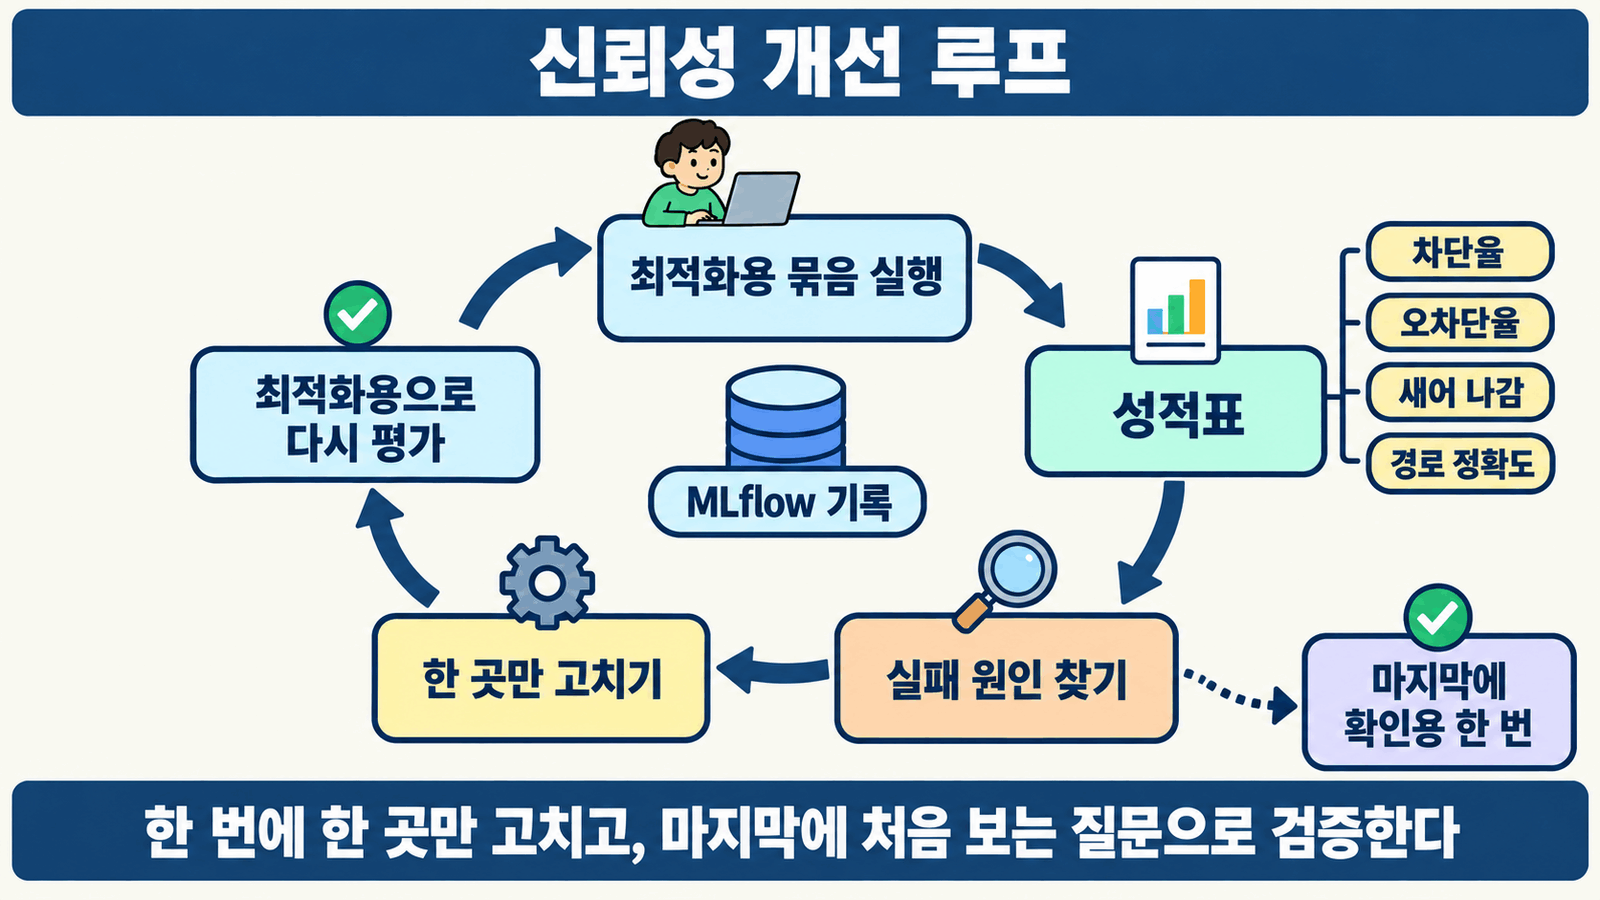
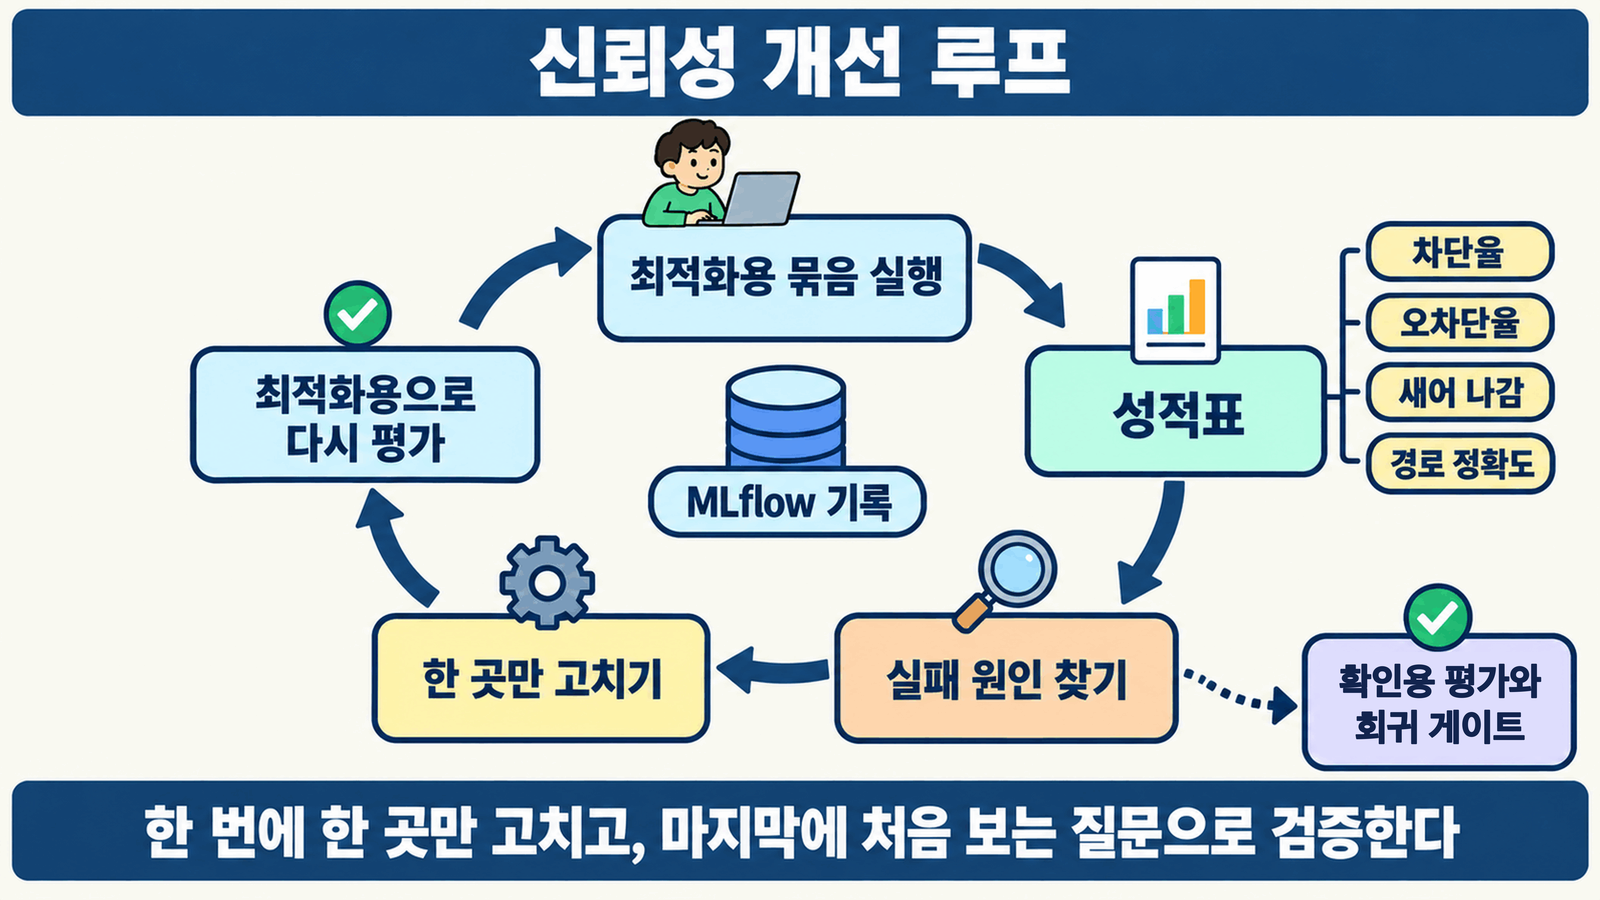
day64 노트북 용어와 설명 다듬기, 함께 따라하기에 회귀 게이트 확인 단계, 노드 흐름도 화살표 가운데 정렬과 평가 루프 그림 갱신

Changed region(s): [[0.8125, 0.7156, 0.9688, 0.84]]

diff --git a/day64_레일통합_실행레일/교안02_실행레일_루나에이전트/luna_agent/app/graph/builder.py b/day64_레일통합_실행레일/교안02_실행레일_루나에이전트/luna_agent/app/graph/builder.py
@@ -6,10 +6,10 @@
 입력, 출력 레일은 요청마다 한 번 돌아 노드로 둔다. 실행 레일은 에이전트의 도구 반복 안에서 돌아 미들웨어로 둔다.
 
 미들웨어 순서 규칙(langchain 1.3 create_agent)
-- before_model 훅은 목록 순서대로, after_model 훅은 목록의 거꾸로 돈다.
+- before_model 훅은 목록 순서대로, after_model 훅은 목록의 역순으로 돈다.
 - wrap_model_call, wrap_tool_call 은 목록의 첫 미들웨어가 가장 바깥이다. 바깥이 막으면 안쪽은 돌지 않는다.
 그래서 도구 실행 전 검사(2~6번 wrap_tool_call)는 권한 확인이 가장 먼저 돌고, 모델 호출 뒤 훅인 승인(7번)과 답변 가림(8, 9번)은
-목록의 거꾸로 돌아 답변을 가린 다음 승인을 묻는다.
+목록의 역순으로 돌아 답변을 가린 다음 승인을 묻는다.
 """
 import sys
 from pathlib import Path
@@ -41,7 +41,7 @@ ALL_TOOLS = BOOKING_TOOLS + [create_fanart]
 
 # [미들웨어] 실행 레일의 순서와 이유. 번호는 이 목록의 순서다(교안 그림 middleware_order.png 의 번호와 같다)
 # 도구 쪽(2~6, wrap_tool_call): 앞이 바깥이다. 바깥이 막으면 안쪽 검사와 도구는 돌지 않으므로 싼 검사, 넓은 검사를 앞에 둔다
-# 모델 뒤 훅(7~9, after_model): 목록의 거꾸로(9, 8, 7) 돈다. 답변 가림이 먼저 끝나고, 승인은 마지막에 도구 호출만 본다
+# 모델 뒤 훅(7~9, after_model): 목록의 역순(9, 8, 7)으로 돈다. 답변 가림이 먼저 끝나고, 승인은 마지막에 도구 호출만 본다
 MIDDLEWARE = [
     expose_tools_by_role,     # 1. 모델 호출마다: 역할 밖 도구는 모델이 아예 보지 못하게 한다
     check_tool_permission,    # 2. 도구 실행 전 가장 바깥: 남의 데이터, 역할 밖 도구, 없는 공연 id 는 다른 검사보다 먼저 막는다
